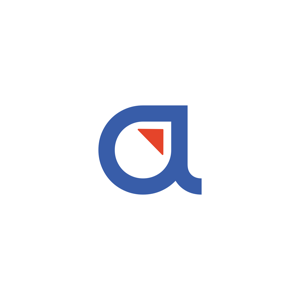
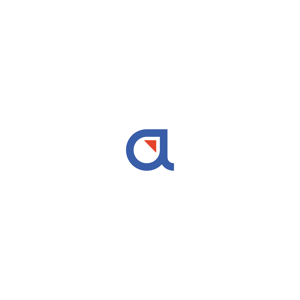
Optimizar miniatura de previsualizacion en WhatsApp para que el isotipo se vea pequeno y centrado con OpenGraph

Changed region(s): [[0.3, 0.33, 0.69, 0.66]]

diff --git a/index.html b/index.html
@@ -6,6 +6,21 @@
   <title>Entrevista Inicial | Altus</title>
   <meta name="description" content="Cuestionario clínico de entrevista inicial - Mgtr. Lucía Montes (BCBA #1-21-51278)">
   <link rel="icon" type="image/png" href="assets/isotipo_web.png">
+  
+  <!-- Previsualización en WhatsApp y Redes Sociales (Miniatura compacta) -->
+  <meta property="og:type" content="website">
+  <meta property="og:title" content="Entrevista Inicial | Altus">
+  <meta property="og:description" content="Cuestionario clínico de entrevista inicial - Mgtr. Lucía Montes (BCBA #1-21-51278)">
+  <meta property="og:image" content="https://atrvt.github.io/entrevista_altus/assets/og_preview.png">
+  <meta property="og:image:secure_url" content="https://atrvt.github.io/entrevista_altus/assets/og_preview.png">
+  <meta property="og:image:type" content="image/png">
+  <meta property="og:image:width" content="600">
+  <meta property="og:image:height" content="600">
+  <meta property="og:url" content="https://atrvt.github.io/entrevista_altus/">
+  <meta name="twitter:card" content="summary">
+  <meta name="twitter:title" content="Entrevista Inicial | Altus">
+  <meta name="twitter:description" content="Cuestionario clínico de entrevista inicial - Mgtr. Lucía Montes (BCBA #1-21-51278)">
+  <meta name="twitter:image" content="https://atrvt.github.io/entrevista_altus/assets/og_preview.png">
   <link rel="preconnect" href="https://fonts.googleapis.com">
   <link rel="preconnect" href="https://fonts.gstatic.com" crossorigin>
   <link href="https://fonts.googleapis.com/css2?family=Outfit:wght@300;400;500;600;700&family=Plus+Jakarta+Sans:wght@400;500;600;700&display=swap" rel="stylesheet">
